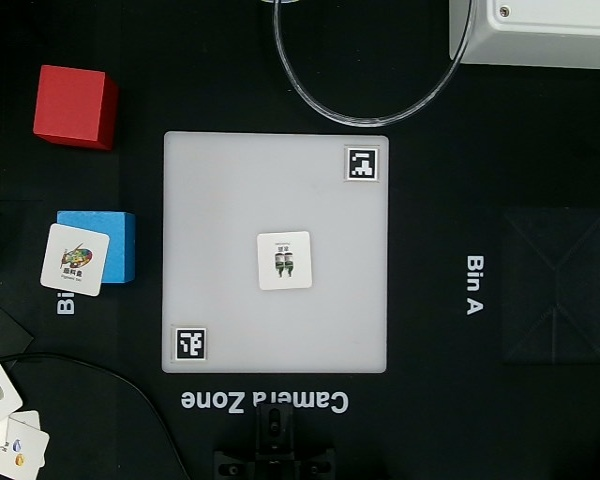
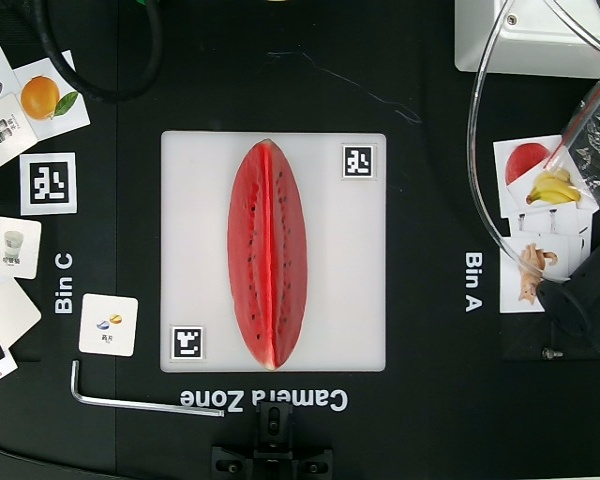
修复抓取不准问题

diff --git a/main.py b/main.py
@@ -508,7 +508,7 @@ class AiKit_APP(AiKit_window, QMainWindow, QWidget):
         baud = self.comboBox_buad.currentText()
         baud = int(baud)
         try:
-            self.myCobot = MyCobot(self.port, baud, timeout=0.2)
+            self.myCobot = MyCobot(self.port, baud, timeout=0.2, thread_lock=True)
             self.stop_wait(0.5)
             self.loger.info("connection succeeded !")
             self.myCobot.set_fresh_mode(0)
@@ -1441,8 +1441,12 @@ class AiKit_APP(AiKit_window, QMainWindow, QWidget):
 
     # calculate the coords between cube and mycobot
     def get_position(self, x, y):
-        pot_x = ((y - self.c_y) * self.ratio + self.camera_x)
-        pot_y = ((x - self.c_x) * self.ratio + self.camera_y)
+        # 二维码板子摆放方向改变之前
+        # pot_x = ((y - self.c_y) * self.ratio + self.camera_x)
+        # pot_y = ((x - self.c_x) * self.ratio + self.camera_y)
+        # 二维码板子摆放方向改变之后
+        pot_x = ((y - self.c_y) * (-self.ratio) + self.camera_x)
+        pot_y = -((x - self.c_x) * self.ratio + self.camera_y)
         if self.img_coord_status:
             self.img_coord_lab.clear()
             self.img_coord_lab.setText(f'X:{int(pot_x)}  Y:{int(pot_y)}')
@@ -1465,12 +1469,12 @@ class AiKit_APP(AiKit_window, QMainWindow, QWidget):
             frame = cv2.resize(frame, (0, 0), fx=fx, fy=fy,
                                interpolation=cv2.INTER_CUBIC)
             if self.x1 != self.x2:
-                # frame=frame[235:780, 488:1050]
-                # 只保留白色板子区域，裁剪参数，frame[x1:x2,y1:y2]，其中x1和x2是裁剪画面上下范围区域，y1和y2是裁剪画面左右范围区域，x1越大，越往下裁剪，x2越大,越往上裁剪，y1 y2越大，越往右裁剪，反之往左裁剪
-                frame = frame[245:760, 498:1020]
+                frame = frame[245:765, 510:1025]
+                # 只保留白色板子区域，裁剪参数，frame[x1:x2,y1:y2]，其中x1和x2是裁剪画面上下范围区域，y1和y2是裁剪画面左右范围区域，x1越大，越往下裁剪，x2越大,越往下裁剪，y1 y2越大，越往右裁剪，反之往左裁剪
+                # frame = frame[245:760, 498:1020]
                 # the cutting ratio here is adjusted according to the actual situation
-                # frame = frame[int(self.y2 * 0.66):int(self.y1 * 1.14),  # 0.78 1.1
-                #         int(self.x1 * 0.88):int(self.x2 * 1.08)]  # 0.84 1.08
+                # frame = frame[int(self.y2 * 0.8):int(self.y1 * 1.08),  # 0.78 1.1
+                #         int(self.x1 * 0.89):int(self.x2 * 1.06)]  # 0.84 1.08
             return frame
         except Exception as e:
             self.loger.error('Interception failed' + str(e))
@@ -1719,7 +1723,7 @@ class AiKit_APP(AiKit_window, QMainWindow, QWidget):
             # Adjust the suction position of the suction pump, increase y, move to the left;
             # decrease y, move to the right; increase x, move forward; decrease x, move backward
             if self.comboBox_function.currentText() == 'QR code recognition' or self.comboBox_function.currentText() == '二维码识别' or self.comboBox_function.currentText() == 'Intelligent gripping' or self.comboBox_function.currentText() == '智能夹取':
-                _moved = threading.Thread(target=self.moved(x + 265, y + 5, yaw_degrees))
+                _moved = threading.Thread(target=self.moved(x + 265, -y + 5, yaw_degrees))
                 _moved.start()
 
             else:
@@ -1732,6 +1736,13 @@ class AiKit_APP(AiKit_window, QMainWindow, QWidget):
         try:
             # print('x', x)
             # print('y', y)
+            if x < 235:
+                self.camera_z -= 5
+            elif 235 < x < 239:
+                self.camera_z -= 3
+            else:
+                self.camera_z = self.camera_z
+
             self.is_crawl = True
             while self.is_pick:
                 QApplication.processEvents()
@@ -1805,8 +1816,8 @@ class AiKit_APP(AiKit_window, QMainWindow, QWidget):
                             self.myCobot.set_gripper_mode(0)
                             time.sleep(0.5)
                             self.myCobot.send_angle(6, yaw_degrees_opt, 80)
-                            # time.sleep(3)
-                            self.wait_until_position_reached(self.move_angles[6], id=0, timeout=5)
+                            time.sleep(3)
+                            # self.wait_until_position_reached(self.move_angles[6], id=0, timeout=5)
                             # open gripper
                             self.gripper_on()
                             time.sleep(2.5)
@@ -1848,7 +1859,7 @@ class AiKit_APP(AiKit_window, QMainWindow, QWidget):
                             time.sleep(2.5)
                             # self.wait_until_position_reached([x, y, 250, -174.51, 0.86, -85.93],id=1,timeout=5)
                             self.myCobot.send_coords([x, y, self.camera_z, -174.51, 0.86, -85.93], 100, 1)
-                            time.sleep(6)
+                            time.sleep(6.5)
                             # self.wait_until_position_reached([x, y, self.camera_z, -174.51, 0.86, -85.93], id=1,
                             #                                  timeout=6)
                             # close gripper
@@ -1941,12 +1952,12 @@ class AiKit_APP(AiKit_window, QMainWindow, QWidget):
                         self.gripper_off()
                         time.sleep(1)
                         self.myCobot.send_angles(self.move_angles[0], 40)
-                        self.wait_until_position_reached(self.move_angles[0], id=0, timeout=5)
+                        # self.wait_until_position_reached(self.move_angles[0], id=0, timeout=5)
                         # time.sleep(4)
 
                     else:
                         self.myCobot.send_angles(self.move_angles[0], 40)
-                        self.wait_until_position_reached(self.move_angles[0], id=0, timeout=5)
+                        # self.wait_until_position_reached(self.move_angles[0], id=0, timeout=5)
                         # time.sleep(4)
 
                     if not self.auto_mode_status:
@@ -2239,7 +2250,10 @@ class AiKit_APP(AiKit_window, QMainWindow, QWidget):
             self.btn_color(self.auto_btn, 'red')
             for b in btn:
                 self.btn_color(b, 'red')
-            self.to_origin_func()
+            if self.myCobot.is_in_position(self.move_angles[0], 0) == 1:
+                return
+            else:
+                self.to_origin_func()
 
     def offset_change(self):
         try:
